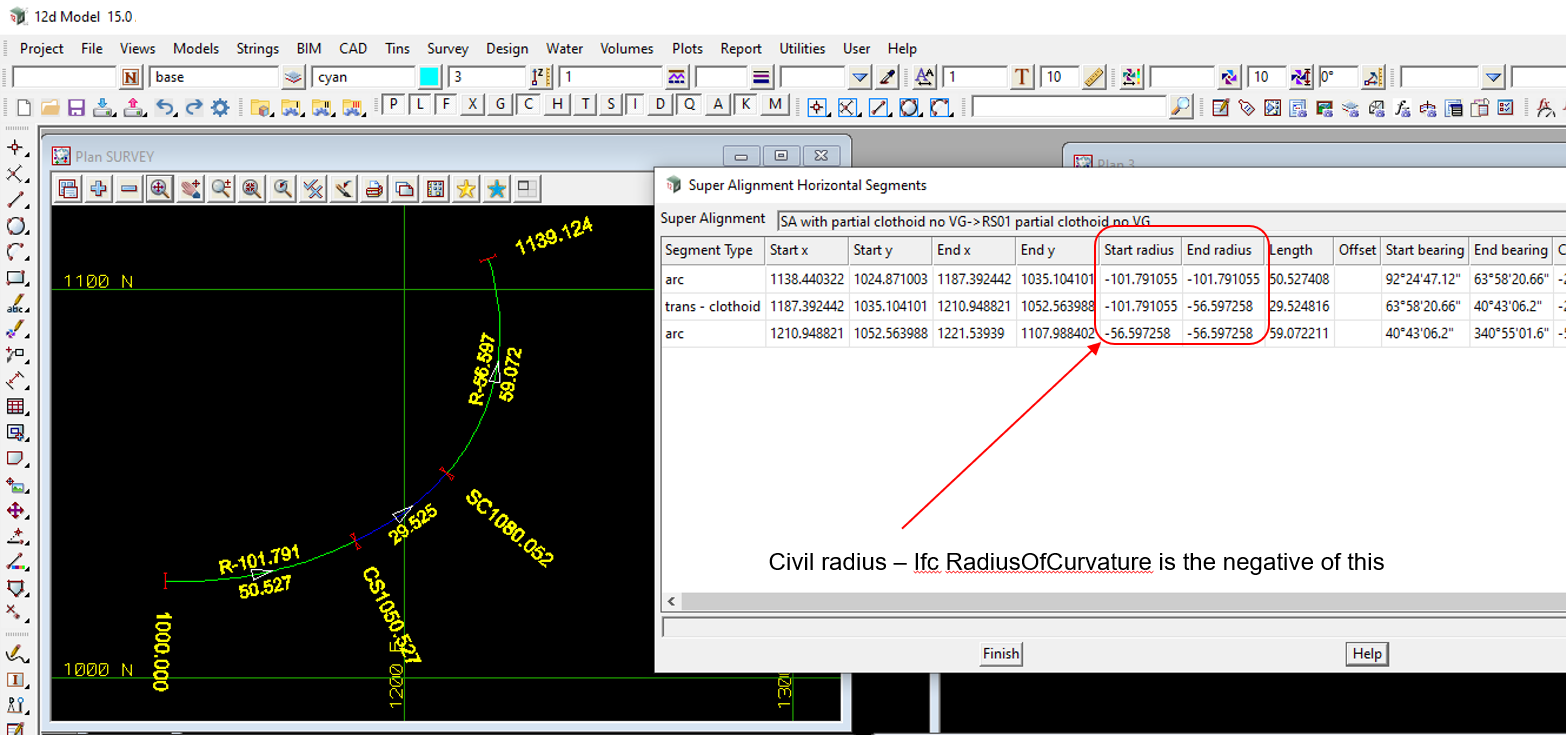
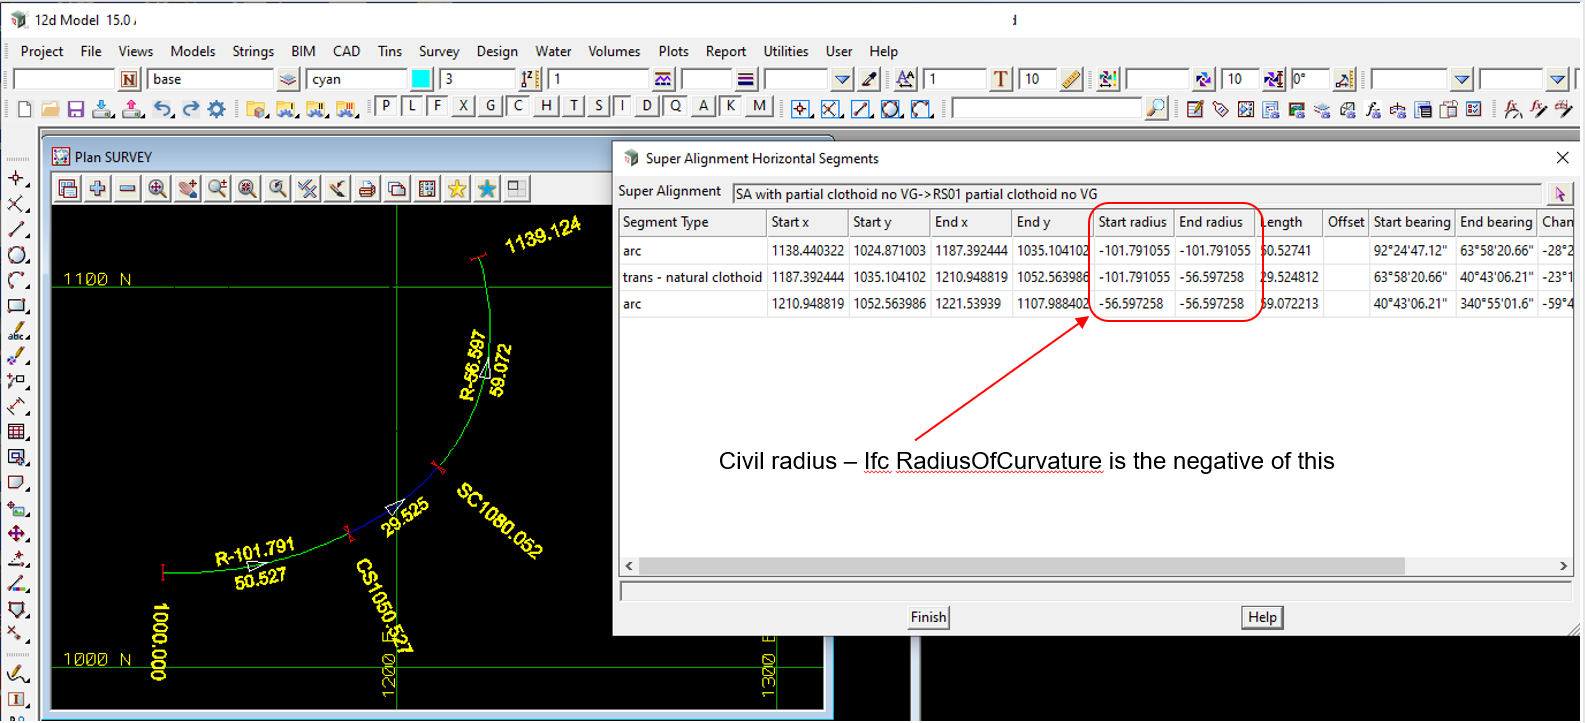
Replaced MX clothoid with IFC clothoid
The example had the MX apporximation to the clothoid rather than the full clothoid

Changed region(s): [[0.0, 0.0, 1.0, 1.0], [0.4598, 0.6086, 0.8276, 0.6694], [0.613, 0.5173, 0.6437, 0.5477]]

diff --git a/IFC 4.3/UT_Alignment_12d_9/readme.md b/IFC 4.3/UT_Alignment_12d_9/readme.md
@@ -13,7 +13,7 @@ This scenario has a simple alignment consisting of a:
 
 In the ifc file there is the seamantic definition of the alignment but no ifc geometry.
 
-The Ifc file was generated by 12d Model - 24 Dec 2020. 
+The Ifc file was generated by 12d Model - 27 Dec 2020. 
 
 
 ### Prerequisites
